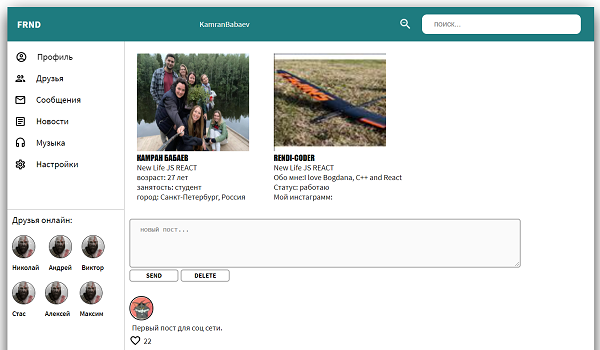
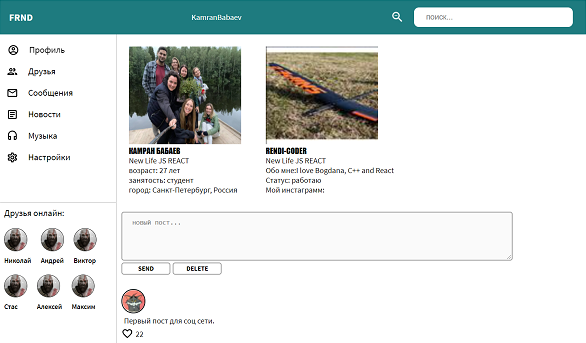
design refactoring

Changed region(s): [[0.0, 0.0, 1.0, 1.0]]

diff --git a/src/skills/Skills.jsx b/src/skills/Skills.jsx
@@ -16,23 +16,17 @@ export function Skills() {
         <h3 className={styles.title}>Мои скиллы:</h3>
         <div className={styles.skills}>
           <Skill title='HTML and CSS'
-                 icon={html}
-                 description='Блок с текстом. Здесь будет краткое описание моих скиллов'/>
+                 icon={html}/>
           <Skill title='JavaScript'
-                 icon={js}
-                 description='Блок с текстом. Здесь будет краткое описание моих скиллов'/>
+                 icon={js}/>
           <Skill title='TypeScript'
-                 icon={typeScript}
-                 description='Блок с текстом. Здесь будет краткое описание моих скиллов'/>
+                 icon={typeScript}/>
           <Skill title='React'
-                 icon={react}
-                 description='Блок с текстом. Здесь будет краткое описание моих скиллов'/>
+                 icon={react}/>
           <Skill title='GIT'
-                 icon={git}
-                 description='Блок с текстом. Здесь будет краткое описание моих скиллов'/>
+                 icon={git}/>
           <Skill title='Material UI'
-                 icon={materialUI}
-                 description='Блок с текстом. Здесь будет краткое описание моих скиллов'/>
+                 icon={materialUI}/>
         </div>
       </div>
     </div>

diff --git a/src/main/Main.jsx b/src/main/Main.jsx
@@ -4,18 +4,22 @@ import stylesContainer from '../common/styles/Container.module.css'
 import photo from './photo.jpeg'
 
 export function Main() {
-    return (
-        <div className={styles.main}>
-            <div className={stylesContainer.container}>
-                <div className={styles.text}>
-                    <h3>Привет!</h3>
-                    <h3>Меня зовут Камран.</h3>
-                    <h3>Я Frontend-разработчик!</h3>
-                </div>
-                <div className={styles.photo}>
-                    <img src={photo} alt=''/>
-                </div>
-            </div>
+  return (
+    <div className={styles.main}>
+      <div className={stylesContainer.container}>
+        <div className={styles.text}>
+          <h3>Привет!</h3>
+          <h3>Меня зовут Камран.</h3>
+          <h3>Я Frontend-разработчик!</h3>
+          <p>Высокая работоспособность, умение определить риски, умение
+            работать в режиме многозадачности, лидерские качества, умение
+            работать в команде, организационные и управленческие способности,
+            стрессоустойчивость, амбициозность в постановке целей.</p>
         </div>
-    )
+        <div className={styles.photo}>
+          <img src={photo} alt=''/>
+        </div>
+      </div>
+    </div>
+  )
 }

diff --git a/src/works/works.jsx b/src/works/works.jsx
@@ -12,11 +12,13 @@ export const Works = () => {
         <div className={styles.work}>
           <WorkItem title='FRND'
                     backIMG={frnd}
-                    description='социальная сеть для общения и поиска друзей'
+                    description='Социальная сеть с возможностью добавления постов, подписки, логинизации.
+                    Использовался стек: TypeScript, React, Redux, Redux Thunk и Form, Axios и др'
           />
           <WorkItem title='CAPSULA'
                     backIMG={caps}
-                    description='интернет-магазин гаджетов'
+                    description='Интернет-магазин гаджетов, с возможностью добавления товаров в корзину, расчетом стоимости, добавлением товаров в избранное.
+                    Использовался читый React, хуки, для запросов Axios.'
           />
         </div>
       </div>

diff --git a/src/works/WorkItem/WorkItem.module.css b/src/works/WorkItem/WorkItem.module.css
@@ -1,3 +1,17 @@
+.workItem {
+    border: 2px solid #7c7b7b;
+    border-radius: 15px;
+    box-shadow: 0 0 10px rgba(0, 0, 0, 0.5);
+    transition: 150ms;
+    width: 500px;
+    margin-top: 20px;
+}
+
+.workItem:hover {
+    transform: translateY(-5px);
+    transition: 150ms;
+}
+
 .container {
     position: relative;
     padding: 10px;
@@ -14,6 +28,10 @@
         width: 250px;
         display: flex;
     }
+
+    .workItem p {
+        width: 250px;
+    }
 }
 
 .container .btn {
@@ -22,9 +40,9 @@
     left: 50%;
     transform: translate(-50%, -50%);
     -ms-transform: translate(-50%, -50%);
-    background-color: #343434;
+    background-color: #606060;
     color: white;
-    font-size: 16px;
+    font-size: 18px;
     padding: 12px 24px;
     border: none;
     cursor: pointer;
@@ -32,15 +50,15 @@
 }
 
 .container .btn:hover {
-    background-color: #1c1c1c;
+    background-color: #3d3c3c;
 }
 
 .workItem h3 {
-    width: 100px;
+    width: 100%;
     padding-left: 10px;
 }
 
 .workItem p {
-    width: 250px;
+    width: 400px;
     padding-left: 10px;
 }

diff --git a/src/App.js b/src/App.js
@@ -3,22 +3,20 @@ import {Header} from "./header/Header";
 import {Main} from "./main/Main";
 import {Skills} from "./skills/Skills";
 import {Works} from "./works/works";
-import {AboutMe} from "./aboutMe/AboutMe";
 import {Contacts} from "./contacts/Contacts";
 import {Footer} from "./footer/Footer";
 
 function App() {
-    return (
-        <div className="App">
-            <Header/>
-            <Main/>
-            <Skills/>
-            <Works/>
-            <AboutMe/>
-            <Contacts/>
-            <Footer/>
-        </div>
-    );
+  return (
+    <div className="App">
+      <Header/>
+      <Main/>
+      <Skills/>
+      <Works/>
+      <Contacts/>
+      <Footer/>
+    </div>
+  );
 }
 
 export default App;

diff --git a/src/skills/Skills.module.css b/src/skills/Skills.module.css
@@ -1,19 +1,25 @@
+.skillsBlock {
+    background-color: rgba(236, 236, 236, 0.31);
+    border: 2px solid #b9b7b7;
+    margin-top: 40px;
+    padding: 20px 0;
+}
+
 .skillsContainer {
     flex-direction: column;
     justify-content: flex-start;
-    margin-top: 25px;
 }
 
 .title {
-    font-family: 'Barlow', sans-serif;
     font-size: 22px;
 }
 
 .skills {
+    margin-top: 15px;
     box-sizing: border-box;
     width: 100%;
     display: flex;
-    justify-content: space-evenly;
+    justify-content: space-around;
     flex-wrap: wrap;
 }
 

diff --git a/src/skills/skill/Skill.module.css b/src/skills/skill/Skill.module.css
@@ -1,24 +1,20 @@
 .skill {
-    width: 250px;
+    width: 150px;
     min-height: 150px;
     display: flex;
     flex-direction: column;
     align-items: center;
     box-sizing: border-box;
-    font-family: 'Barlow', sans-serif;
-    margin: 25px;
+    font-family: 'Nunito', sans-serif;
 }
 
 .skill h4 {
     font-size: 20px;
-    margin: 15px 0;
+    margin-top: 20px;
+    opacity: 90%;
 }
 
 .icon {
     width: 60px;
     height: 60px;
-}
-
-.description {
-    text-align: center;
 }

diff --git a/public/index.html b/public/index.html
@@ -6,9 +6,6 @@
     <meta name="theme-color" content="#000000"/>
     <meta name="description" content="Web site created using create-react-app"/>
     <title>Мое портфолио</title>
-    <link rel="preconnect" href="https://fonts.googleapis.com">
-    <link rel="preconnect" href="https://fonts.gstatic.com" crossorigin>
-    <link href="https://fonts.googleapis.com/css2?family=Barlow&family=Dosis:wght@500&display=swap" rel="stylesheet">
 </head>
 <body>
 <div id="root"></div>

diff --git a/src/main/Main.module.css b/src/main/Main.module.css
@@ -1,12 +1,17 @@
 .main {
     box-sizing: border-box;
-    margin-top: 20px;
+    margin-top: 50px;
 }
 
 .text {
-    width: 300px;
-    font-family: 'Barlow', sans-serif;
-    font-size: 20px;
+    width: 350px;
+    font-family: 'Nunito', sans-serif;
+    font-size: 17px;
+}
+
+.text p {
+    font-family: "Comic Sans MS", Arial, sans-serif;
+    opacity: 70%;
 }
 
 .photo img {

diff --git a/src/navigation/Navigation.module.css b/src/navigation/Navigation.module.css
@@ -1,11 +1,11 @@
 .navigation {
-    width: 400px;
+    width: 350px;
     display: flex;
     justify-content: space-evenly;
     margin-right: 30px;
-    font-size: 19px;
+    font-size: 17px;
     font-weight: 600;
-    font-family: 'Barlow', sans-serif;
+    font-family: 'Nunito', sans-serif;
 }
 
 .navigation a {

diff --git a/src/common/styles/Container.module.css b/src/common/styles/Container.module.css
@@ -1,5 +1,4 @@
 .container {
-    /*border: 1px solid black;*/
     height: 100%;
     width: 80%;
     margin: 0 auto;
@@ -7,4 +6,5 @@
     align-items: center;
     justify-content: space-evenly;
     flex-wrap: wrap;
+    font-family: 'Josefin Sans', sans-serif;
 }

diff --git a/src/skills/skill/Skill.jsx b/src/skills/skill/Skill.jsx
@@ -6,7 +6,6 @@ export function Skill(props) {
     <div className={styles.skill}>
       <img src={props.icon} className={styles.icon} alt=''/>
       <h4>{props.title}</h4>
-      <span className={styles.description}>{props.description}</span>
     </div>
   )
 }
